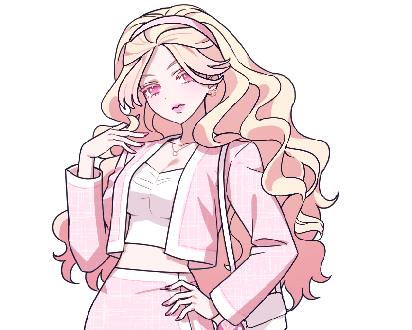
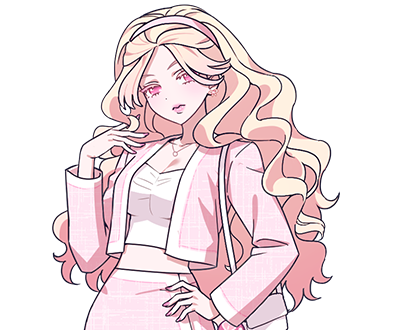
1000 ev

diff --git a/src/utils/itemUsageRules.js b/src/utils/itemUsageRules.js
@@ -65,6 +65,23 @@ const getPokemonNumbers = (pokemon = {}) => {
     .filter((number, index, numbers) => Number.isFinite(number) && numbers.indexOf(number) === index);
 };
 
+// evolutions.json에서 condition.type === 'item'으로 쓰이는 아이템 이름 목록.
+// 부적금화(amulet-coin, 모으령 → 타부자고)처럼 category가 "evolution"이 아닌데도
+// 진화 아이템으로 쓰이는 경우를 잡기 위해 카테고리 대신 진화 데이터 기준으로도 판별한다.
+const ITEM_EVOLUTION_TRIGGER_NAMES = new Set(
+  (evolutionsData.evolutions || [])
+    .filter(evolution => evolution.condition?.type === 'item' && evolution.condition.item)
+    .map(evolution => normalizeItemNameForUse(evolution.condition.item))
+);
+
+export const isEvolutionTriggerItem = (item, itemData = null) => {
+  const src = itemData || item;
+  if (String(src?.category || item?.category || '').includes('evolution')) return true;
+  return [item?.name, item?.nameEn, itemData?.name, itemData?.nameEn]
+    .map(normalizeItemNameForUse)
+    .some(name => name && ITEM_EVOLUTION_TRIGGER_NAMES.has(name));
+};
+
 export const findItemEvolution = (pokemon, item, itemData = null) => {
   const pokemonNumbers = new Set(getPokemonNumbers(pokemon));
   if (pokemonNumbers.size === 0) return null;
@@ -204,6 +221,14 @@ export const canUseItemOnPokemonTarget = ({
 
   if (resolvedItemData?.category?.includes('evolution')) {
     return Boolean(findItemEvolution(pokemon, item, itemData));
+  }
+
+  // category는 evolution이 아니지만 진화 데이터에 쓰이는 아이템(부적금화 등).
+  // 공식 아이템은 진화 말고 다른 사용 효과가 없으므로 진화 가능한 포켓몬에만 쓸 수 있게 한다.
+  // 커스텀 아이템(spicy_wailord 등)은 친밀도 등 다른 효과도 있어서 아래 일반 판정으로 넘긴다.
+  if (isEvolutionTriggerItem(item, itemData)) {
+    if (findItemEvolution(pokemon, item, itemData)) return true;
+    if (!resolvedItemData?.isCustom) return false;
   }
 
   const itemName = resolvedItemData?.nameEn || resolvedItemData?.name || item.nameEn || item.name;

diff --git a/src/hooks/items/useItemEffects.js b/src/hooks/items/useItemEffects.js
@@ -2,7 +2,7 @@
 import { useRef, useEffect } from 'react';
 import { isEVItem, applyEVItem } from '../../utils/evItemUtils';
 import { getLearnsetTmMoves, getInheritedEggMoves, getPokemonLearnset } from '../../utils/pokemonLearnsets';
-import { isRareCandyItem, resolveItemData } from '../../utils/itemUsageRules';
+import { isRareCandyItem, resolveItemData, isEvolutionTriggerItem } from '../../utils/itemUsageRules';
 import { isSoyYYNItem } from '../../utils/specialItemUtils';
 import { findPokemonTemplate } from '../../utils/pokemonBaseStats';
 import { getPokemonAbilities } from '../../utils/abilityUtils';
@@ -27,6 +27,8 @@ const CONSUMABLE_FORM_CHANGE_ITEMS = new Set(['furfrou-trim-ticket']);
 // category가 "evolution"이 아니어도 진화 체크를 같이 태워야 하는 예외 아이템.
 // "고래왕급 고추장 떡볶이"(spicy_wailord, 관리자가 vitamins 카테고리의 친밀도 아이템으로
 // 만들어서 진화 아이템 분기를 안 타던 커스텀 아이템)만 예외로 처리한다.
+// 부적금화(amulet-coin)처럼 evolutions.json에 진화 아이템으로 등록된 아이템은
+// isEvolutionTriggerItem이 진화 데이터 기준으로 따로 잡아준다.
 const EVOLUTION_CHECK_EXCEPTION_ITEMS = new Set(['spicy_wailord']);
 
 // 꿀 아이템 → 오리코리오 특정 폼 nameEn 직접 매핑
@@ -633,7 +635,7 @@ export const useItemEffects = (
     // 먼저 체크해야 한다 - 안 그러면 spicy_wailord처럼 친밀도 등 다른 효과가 같이 붙은
     // 진화 아이템은 그 효과 처리에서 먼저 return돼버려 진화 체크에 영영 도달하지 못한다.
     // updatedPokemon을 넘겨서 여기서 오른 친밀도 등이 진화 결과에도 반영되게 한다.
-    if (itemData?.category?.includes('evolution') || EVOLUTION_CHECK_EXCEPTION_ITEMS.has(itemData?.nameEn)) {
+    if (isEvolutionTriggerItem(item, itemData) || EVOLUTION_CHECK_EXCEPTION_ITEMS.has(itemData?.nameEn)) {
       const success = evolutionHook.evolveWithItem(updatedPokemon, itemData.nameEn || itemData.name);
       if (success) {
         consumeItem(item);

diff --git a/src/components/views/ItemsView.jsx b/src/components/views/ItemsView.jsx
@@ -1,7 +1,7 @@
 import useMediaQuery from '../../hooks/useMediaQuery';
 import MobileItemsView from './_mobile/MobileItemsView';
 import { getItemPocket, canUseItem, CATEGORIES } from '../../utils/itemUtils';
-import { canUseItemOnPokemonTarget, FORM_CHANGE_ITEM_POKEMON } from '../../utils/itemUsageRules';
+import { canUseItemOnPokemonTarget, FORM_CHANGE_ITEM_POKEMON, isEvolutionTriggerItem } from '../../utils/itemUsageRules';
 import { getOwnedPokemonSpriteUrl } from '../../utils/pokemonImageUtils';
 import { isSoyYYNItem } from '../../utils/specialItemUtils';
 import { getItemEffectBadges } from '../../utils/itemEffectBadges';
@@ -292,6 +292,7 @@ const categories = CATEGORIES.map(cat => {
     if (details.itemData?.isTM) return false;
     if (isFormChangeItem(item)) return false;
     if (String(details.category || '').includes('evolution')) return false;
+    if (isEvolutionTriggerItem(item, details.itemData)) return false;
     return ![
       'qnaItemPermit',
       'abilityPatch',

diff --git a/src/components/views/_mobile/MobileItemsView.jsx b/src/components/views/_mobile/MobileItemsView.jsx
@@ -6,7 +6,7 @@ import { getItemPocket, canUseItem, CATEGORIES, POCKET_LABELS } from '../../../u
 import { isSoyYYNItem } from '../../../utils/specialItemUtils';
 import { getOwnedPokemonSpriteUrl } from '../../../utils/pokemonImageUtils';
 import { getItemEffectBadges } from '../../../utils/itemEffectBadges';
-import { canUseItemOnPokemonTarget, FORM_CHANGE_ITEM_POKEMON } from '../../../utils/itemUsageRules';
+import { canUseItemOnPokemonTarget, FORM_CHANGE_ITEM_POKEMON, isEvolutionTriggerItem } from '../../../utils/itemUsageRules';
 
 const NECTAR_FORM_MAP = {
   'red-nectar': 'oricorio-baile',
@@ -110,6 +110,7 @@ export default function MobileItemsView() {
     if (details.itemData?.isTM) return false;
     if (isFormChangeItem(item)) return false;
     if (String(details.itemData?.category || item.category || '').includes('evolution')) return false;
+    if (isEvolutionTriggerItem(item, details.itemData)) return false;
     return ![
       'qnaItemPermit',
       'abilityPatch',

diff --git a/src/utils/itemUtils.js b/src/utils/itemUtils.js
@@ -1,6 +1,7 @@
 // src/utils/itemUtils.js
 import { Package, Circle, Heart, Zap, Sparkles, Disc, ShoppingBag, Cpu, Dumbbell, Key, ChefHat } from 'lucide-react';
 import { isSoyYYNItem } from './specialItemUtils';
+import { isEvolutionTriggerItem } from './itemUsageRules';
 
 export const ITEM_POCKETS = {
   POKEBALLS: 'pokeballs',
@@ -253,6 +254,7 @@ export const canUseItem = (item) => {
     category === ITEM_POCKETS.MEDICINE ||
     category === ITEM_POCKETS.MACHINES ||
     category?.includes('evolution') ||
+    isEvolutionTriggerItem(item) ||
     category?.includes('berry') ||
     item.isTM ||
     (item.specialEffect && !(item.isCustom && item.specialEffect === 'iv')) ||
